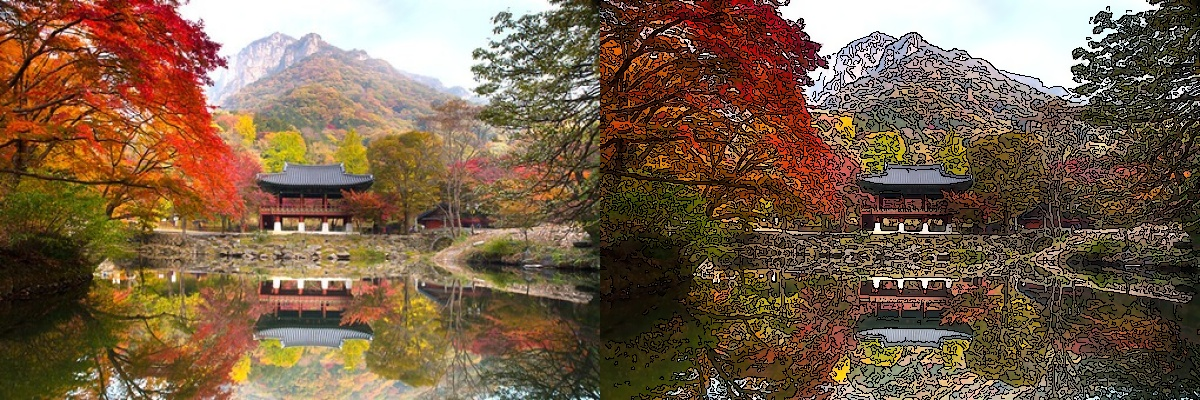
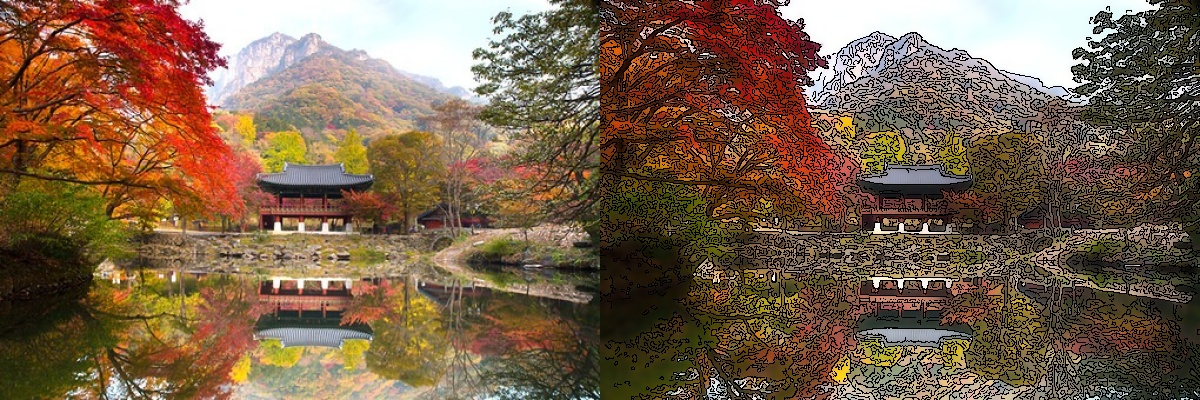
bilateralFilter값 수정

diff --git a/cartoon_rendering.py b/cartoon_rendering.py
@@ -5,7 +5,7 @@ import numpy as np
 sample_img = ['Sample.png','cityB.jpg','cityD.webp','cloud.jpg','refl.jpg','sea.jpg','winter.png','yellow.jpg','aladdin.jpg','hitman.jpg']
 
 #이미지 선택
-img_select = 0
+img_select = 9
 
 img = cv.imread(sample_img[img_select])
 assert img is not None, 'Cannot read the given image, ' + sample_img[img_select]
@@ -58,7 +58,7 @@ cv.imshow('Canny Edge2: origin', merge2)
 # 색상 반전 (Bitwise NOT 연산)
 edges = cv.bitwise_not(edge)
 # 이미지 색감 뭉개지게 하기 (Bilateral Filter)
-color = cv.bilateralFilter(img, 9, 10, 10)
+color = cv.bilateralFilter(img, 9, 75, 75)
 # Combine the color image with the edges mask
 cartoon = cv.bitwise_and(color, color, mask=edges)
 
